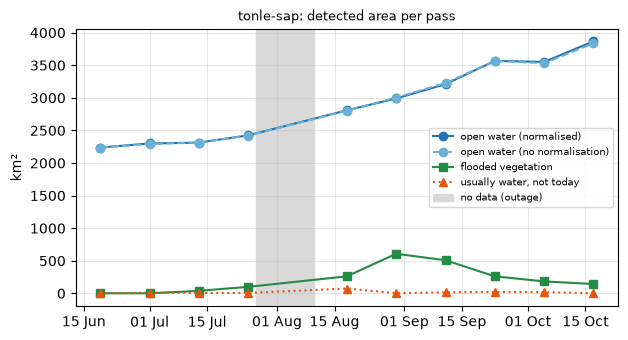
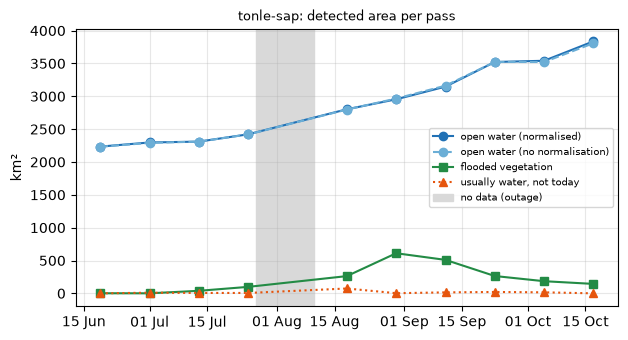
Math detection: common footprint, wider edge mask, results on aligned stack

diff --git a/scripts/detect/ops.py b/scripts/detect/ops.py
@@ -42,6 +42,7 @@ KNOBS = {
         "wind_frac": 0.7,         # "usually water" = water on first, last and >= 70 % of dates
         "nodata_floor": 0.01,     # preview no-data margins are drawn at ~1/255; cut them
         "edge_erode_px": 8,       # shrink the footprint by 8 px (EDA: edge ~8 px at half brightness)
+        "common_footprint": True, # keep only pixels valid on all dates
         "open_k": 0,              # morphological opening kernel (0 = off)
         "untested": False,
     },
@@ -67,6 +68,7 @@ KNOBS = {
         "wind_frac": 0.7,
         "nodata_floor": None,     # gamma0 has NaN no-data instead
         "edge_erode_px": 1,
+        "common_footprint": True,
         "open_k": 3,
         "untested": True,          # literature-typical starting values, NOT tuned
     },
@@ -456,6 +458,10 @@ def run_pipeline(x, valid, source, kn=None, dev=None, normalise=None):
     x, valid = clean_input(x.to(dev), valid.to(dev))
     if kn.get("nodata_floor") is not None:
         valid = valid & ~nodata_margin(x, valid, kn["nodata_floor"])
+    if kn.get("common_footprint", False):
+        # only pixels imaged on every date: per-date areas become comparable and the
+        # swath edge (which moves between dates) cannot fake a change
+        valid = valid & valid.all(0, keepdim=True)
     if kn.get("edge_erode_px", 0) > 0:
         valid = erode(valid, 2 * kn["edge_erode_px"] + 1)
     xf = quegan_filter(x, valid, kn["box"]) if kn["quegan"] else box_mean(x, valid, kn["box"])

diff --git a/docs/eda/math-detection.md b/docs/eda/math-detection.md
@@ -22,10 +22,16 @@ The `gamma0` values are textbook L-band starting points and **have never been te
 
 ## Steps (one or two sentences each)
 
+0. **Co-registration (done by the shared loader, `stack.py`, `align=True`).** Every date is shifted onto
+   the first by image correlation. Before this, dates were misaligned by up to 6.9 px (Ararat) and 5.5 px
+   (Sevan); that produced a fake "shoreline ring" of change around Sevan and most of the 31 Aug
+   "flooded vegetation" in Armenia. All numbers below are from the aligned stack.
 1. **Footprint cleanup.** The previews draw some of the area outside the swath at the darkest value
    (1/255), which is the same value as calm water. Floor-valued pixels connected to the footprint edge
-   are removed, and the footprint is then shrunk by 2 px (`nodata_floor=0.01`, `edge_erode_px=2`).
-   Without this a 24 px strip on the east edge of Tonle Sap was classed as "permanent water".
+   are removed; then only pixels imaged on **every** date are kept (`common_footprint=True`, so per-date
+   areas are comparable), and that footprint is shrunk by 8 px (`edge_erode_px=8`; the EDA found the
+   outer ~8 px at Tonle Sap at about half brightness). Without this a 24 px strip on the east edge of
+   Tonle Sap was "permanent water" and the moving south edge was "change".
 2. **Boxcar mean (mask-aware).** `m = conv(x·mask, 1) / conv(mask, 1)` over a k×k window, so invalid
    pixels do not drag the mean to zero (`box=3`, about 540 m).
 3. **Multi-temporal speckle filter (Quegan).** `J_t = m_t · (1/N) Σ_k x_k / m_k`: each date's local
@@ -36,7 +42,7 @@ The `gamma0` values are textbook L-band starting points and **have never been te
    multiply by `gain = mean(reference)/mean(date)` where reference = temporal median (`norm_mode="gain"`
    because the preview black point is fixed; for dB data an additive offset is used instead). A
    least-squares line was tried first and dropped: noise biases its slope towards 0 and turned water grey.
-   Gains found: 0.94–1.04, i.e. no large stretch drift. Effect on results: see tables.
+   Gains found: 0.96–1.03, i.e. no large stretch drift. Effect on results: see tables.
 4. **Water per date (hysteresis).** Water = HH below `weak=0.12` **and** 8-connected to a pixel below
    `strong=0.06`, with HV < 0.35 (loose); then specks < 4 px removed. HH is used as the main cue
    because wind brightens the lake surface in HV much more than in HH on these previews.
@@ -63,53 +69,58 @@ The `gamma0` values are textbook L-band starting points and **have never been te
 
 * `water_hh_weak=0.12`, `strong=0.06`: Lake Sevan is 1,242 km² in reality; a 0.10–0.12 HH threshold
   gives 1,190–1,240 km² on the previews. The same numbers are then used at Tonle Sap. Not independent.
+  Cross-checks from the EDA: a flood-fill of dark pixels connected to Sevan gives 1,231–1,238 km² on calm
+  dates (we get 1,235–1,261 on calm dates); at Tonle Sap a second Otsu split inside the dark class gives
+  ≈0.24, i.e. our 0.12 is the stricter side — "dark land" between 0.12 and 0.24 is not called water.
 * `fv_hh_rise=0.15`: picked between 0.12 and 0.20 using Sevan/Ararat (no flooded forest there) as a
-  negative control. **Very sensitive**: Tonle Sap peak flooded-veg area is 1,084 / 625 / 156 km² at
+  negative control. **Very sensitive**: Tonle Sap peak flooded-veg area is 1,083 / 611 / 139 km² at
   0.12 / 0.15 / 0.20. Treat flooded-veg areas as order-of-magnitude.
 * CUSUM `step_min=0.12`, `t_min=5`: on the synthetic test with heavy (8-look) speckle, far-away pixels
   called "stable" go from 79.5 % (no t gate) to 97.9 % (t ≥ 5); at 30 looks 99.8 % → 99.95 %.
 
 ## Results (normalisation on; "no-norm" = same run without step 3)
 
-Tonle Sap (km²; valid footprint ≈ 36,300–37,700 km²)
+Tonle Sap (km²; common footprint 36,036 km²)
 
 | date | water | water no-norm | flooded veg | fl. veg no-norm | wind-suspect |
 |---|---|---|---|---|---|
-| 2026-06-19 | 2238 | 2235 | 1 | 1 | 0 |
-| 2026-07-01 | 2299 | 2293 | 1 | 1 | 13 |
-| 2026-07-13 | 2313 | 2312 | 34 | 35 | 4 |
-| 2026-07-25 | 2425 | 2419 | 101 | 104 | 6 |
+| 2026-06-19 | 2234 | 2232 | 1 | 1 | 0 |
+| 2026-07-01 | 2297 | 2290 | 0 | 1 | 10 |
+| 2026-07-13 | 2310 | 2310 | 39 | 35 | 6 |
+| 2026-07-25 | 2421 | 2419 | 98 | 102 | 6 |
 | *gap* | | | | | |
-| 2026-08-18 | 2834 | 2832 | 295 | 227 | 73 |
-| 2026-08-30 | 2984 | 2997 | 625 | 413 | 3 |
-| 2026-09-11 | 3217 | 3235 | 544 | 303 | 15 |
-| 2026-09-23 | 3554 | 3557 | 278 | 177 | 23 |
-| 2026-10-05 | 3551 | 3530 | 210 | 175 | 20 |
-| 2026-10-17 | 3870 | 3841 | 161 | 130 | 0 |
+| 2026-08-18 | 2802 | 2798 | 262 | 224 | 74 |
+| 2026-08-30 | 2954 | 2966 | 611 | 421 | 2 |
+| 2026-09-11 | 3147 | 3162 | 509 | 302 | 15 |
+| 2026-09-23 | 3522 | 3523 | 264 | 180 | 21 |
+| 2026-10-05 | 3541 | 3522 | 185 | 166 | 16 |
+| 2026-10-17 | 3837 | 3808 | 144 | 131 | 0 |
 
-Classes: stable 27,394 · permanent water 2,180 · seasonal open water 1,830 · flooded veg 514 ·
-other change 6,986 km² (of which 5,125 km² got darker, 1,861 brighter).
+Classes: stable 27,272 · permanent water 2,173 · seasonal open water 1,778 · flooded veg 492 ·
+other change 7,189 km².
 
-Lake Sevan (km²; real lake 1,242 km²)
+Lake Sevan (km²; real lake 1,242 km²; windy dates per EDA: 31 Aug and 12 Sep)
 
 | date | water | water no-norm | flooded veg | fl. veg no-norm | wind-suspect |
 |---|---|---|---|---|---|
-| 2026-06-20 | 1238 | 1236 | 0 | 0 | 0 |
-| 2026-07-02 | 1225 | 1223 | 0 | 0 | 5 |
-| 2026-07-14 | 1222 | 1218 | 1 | 2 | 5 |
-| 2026-07-26 | 1270 | 1273 | 0 | 0 | 1 |
-| 2026-08-19 | 1252 | 1246 | 1 | 2 | 2 |
-| 2026-08-31 | 1221 | 1212 | 99 | 95 | 83 |
-| 2026-09-12 | 1183 | 1181 | 7 | 4 | 66 |
-| 2026-09-24 | 1260 | 1264 | 30 | 13 | 22 |
-| 2026-10-06 | 1311 | 1312 | 1 | 0 | 1 |
-| 2026-10-18 | 1284 | 1294 | 1 | 0 | 0 |
+| 2026-06-20 | 1245 | 1244 | 0 | 0 | 0 |
+| 2026-07-02 | 1235 | 1233 | 0 | 0 | 7 |
+| 2026-07-14 | 1235 | 1232 | 0 | 0 | 6 |
+| 2026-07-26 | 1284 | 1286 | 0 | 0 | 1 |
+| 2026-08-19 | 1261 | 1256 | 0 | 1 | 2 |
+| 2026-08-31 | 1236 | 1233 | 6 | 6 | 36 |
+| 2026-09-12 | 1197 | 1197 | 0 | 0 | 67 |
+| 2026-09-24 | 1279 | 1284 | 0 | 0 | 5 |
+| 2026-10-06 | 1329 | 1329 | 0 | 0 | 0 |
+| 2026-10-18 | 1304 | 1309 | 0 | 0 | 0 |
 
-Ararat valley: water 7–26 km² (small reservoirs/ponds), flooded veg 0–190 km² with a single spike on
-2026-08-31 (same date as Sevan's spike, see limits); classes: stable 3,703, other classes ≤ 33 km² each.
+Classes: stable 3,138 · permanent water 1,204 · seasonal open water 125 · flooded veg 0 · other change 31 km².
 
-Normalisation changes water area by < 1 % on every date, but flooded-veg area by up to ~80 %
-(Tonle Sap 2026-09-11: 544 vs 303 km²), because flooded veg is a *difference* from June and a 1–2 %
+Ararat valley: water 10–31 km² (small reservoirs/ponds; max on 6 Oct, the date with the anomalous HV
+channel), flooded veg 0–32 km² (31 Aug); classes: stable 3,724, others ≤ 18 km² each.
+
+Normalisation changes water area by < 1 % on every date, but flooded-veg area by up to ~70 %
+(Tonle Sap 2026-09-11: 509 vs 302 km²), because flooded veg is a *difference* from June and a 1–2 %
 gain shifts many borderline pixels.
 
 ## What the figures show (`docs/eda/math/`)
@@ -121,36 +132,39 @@ gain shifts many borderline pixels.
   stable; changes ring outward from the lake, mostly dated 18 Aug → 23 Sep (the south-east river plain
   first, the outer north-west plain last, 23 Sep). Very little before the gap. This matches a late flood.
 * `<area>_classes.png`: season classes with km² in the legend.
-* `<area>_areas.png`: area per pass at true dates, outage shaded. Tonle Sap water rises from ~2,240 km²
-  (June) to ~3,870 km² (17 Oct), most of it after mid-August; flooded veg peaks ~30 Aug then falls as
+* `<area>_areas.png`: area per pass at true dates, outage shaded. Tonle Sap water rises from ~2,230 km²
+  (June) to ~3,840 km² (17 Oct), most of it after mid-August; flooded veg peaks ~30 Aug then falls as
   water gets deeper (vegetation becomes open water).
 * `<area>_triptych.png`: first vs last filtered HH and their difference (red = darker).
 
 ## Sevan and wind
 
-Sevan's lake stays at the display floor in **HH** on every pass while HV rises up to 0.16 in Sept–Oct
-(wind). Because the water rule keys on HH (HV limit is loose), Sevan's water area stays 1,183–1,311 km²
-(−5 % … +6 % around the real 1,242 km²) with no spurious shrinkage: **handled for these previews**.
-The residual dips (31 Aug, 12 Sep) are flagged orange: a 1-pixel ring along the north shore (looks like a
-1-pixel geolocation shift of that preview) and the shallow north-west bay. At Tonle Sap the lake also
-brightens a little in October, still well below the threshold. With calibrated dB data and a stronger
-wind the HH rule may fail; then the orange flag is the warning, not a fix.
+Sevan's lake stays at the display floor in **HH** on every pass while HV rises in Sept–Oct (wind).
+Because the water rule keys on HH (HV limit is loose), Sevan's water area stays 1,197–1,329 km²
+(−4 % … +7 % around the real 1,242 km²) with no spurious shrinkage: **handled for these previews**.
+The dips on the two windy dates (31 Aug: 36 km², 12 Sep: 67 km² wind-suspect, mostly the shallow
+north-west bay) are flagged orange, not filled in. The late values (1,304–1,329 km² in October) are
+slightly above the real area; the lake did rise in 2026 but by far less than a pixel, so read this as
+±5 % noise, not a measurement. With calibrated dB data and stronger wind the HH rule may fail; then
+the orange flag is the warning, not a fix.
 
 ## Limits (please read before quoting numbers)
 
 * **Uncalibrated previews.** 8-bit display brightness with an unknown stretch, not backscatter. Water sits
   at the 1/255 floor; anything quantitative about brightness steps is in "display units".
 * **180 m pixels.** A 1-pixel shoreline error on Sevan's ~250 km perimeter is ~45 km². Sevan's
-  "seasonal open water" (177 km²) is mostly this shoreline ring plus dark fields south-west of the lake;
-  it is **not** evidence that the lake changed (it actually rose by a sub-pixel amount).
+  "seasonal open water" (125 km²) is mostly the north-west bay (windy dates) and dark fields south-west of
+  the lake; it is **not** evidence that the lake changed (it rose by a sub-pixel amount).
+* **Armenia 2026-10-06 has an anomalous HV channel** (EDA). Our water rule barely uses HV, but HV-based
+  numbers on that date (normalisation gain, flooded-veg HV test, change steps in HV) should not be trusted.
 * **Thresholds were picked from the same data** (Sevan's known area; Sevan/Ararat as a negative control).
   There is no ground truth and no independent validation. The gamma0 knobs are untested.
-* **Flooded vegetation is fragile**: x4 change in area between thresholds 0.12 and 0.20; the reference is
+* **Flooded vegetation is fragile**: x4–8 change in area between thresholds 0.12 and 0.20; the reference is
   only the first two (June/early July) passes, which may already be partly wet at Tonle Sap.
-* **31 Aug 2026 spike** in Armenia (Sevan 99 km², Ararat 190 km² "flooded veg") is most likely rain-wet
-  soil or irrigation raising HH, or a stretch change — not flooded forest. The class map needs ≥ 2 dates,
-  which removes most of it, but the per-date number is inflated.
-* **"Other change" is broad** (Tonle Sap 6,986 km²): rice/crop cycles, partly flooded fields that are darker
+* **31 Aug 2026 in Armenia**: before co-registration this date showed 99 km² (Sevan) / 190 km² (Ararat)
+  of "flooded vegetation"; after alignment it is 6 / 32 km². The rest (Ararat) is likely wet soil or
+  irrigation raising HH, not flooded forest.
+* **"Other change" is broad** (Tonle Sap 7,189 km²): rice/crop cycles, partly flooded fields that are darker
   but not below the water threshold, soil moisture. It is a "something changed here" layer, not a label.
 * **The August gap.** No passes 27 Jul–10 Aug; a change in that window is dated 18 Aug. Changes on the last
   date (17 Oct) have only one "after" sample and are unconfirmed.
